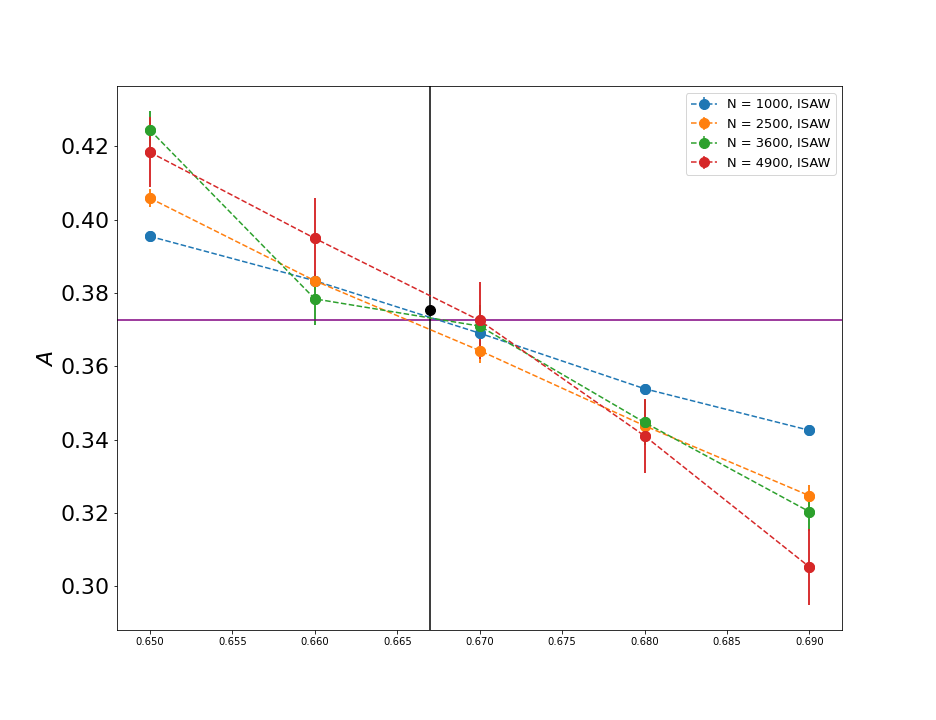
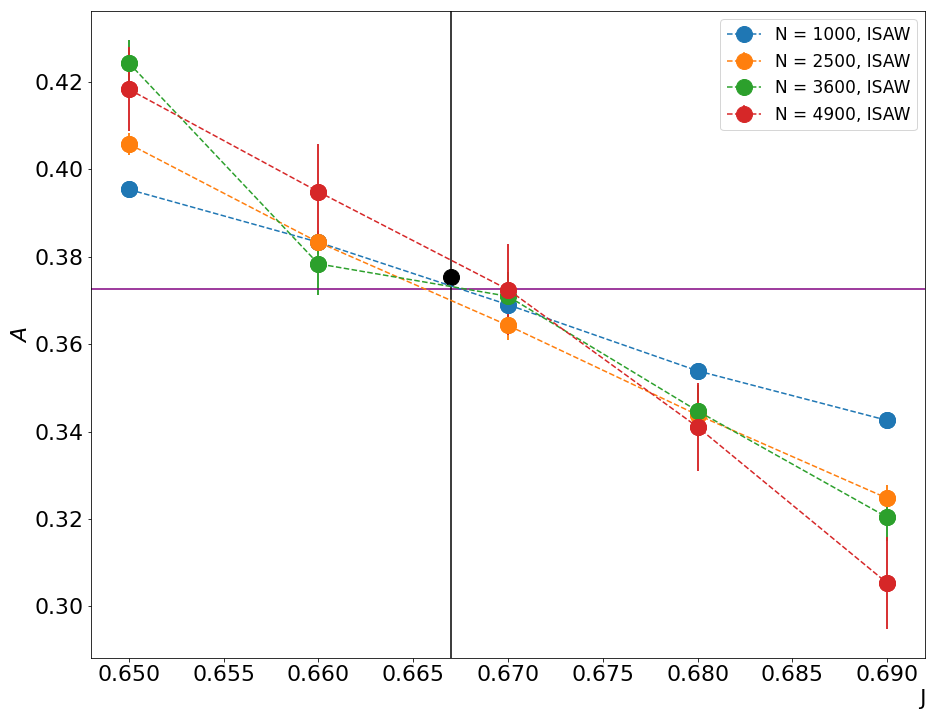
Add files via upload

diff --git a/Статья/main.tex b/Статья/main.tex
@@ -56,7 +56,13 @@ For comparing magnetic properties of models with similar geometric ones we also 
     Q_{N,\alpha\beta} = \frac{1}{N+1} \sum^{N}_{i=0}(w_{i,\alpha} - w_{c, \alpha})(w_{i,\beta} - w_{c, \beta})
 \end{equation}
 
-where $N$ is length of the system (number of monomers in conformations of Ising-ISAW models and number of spins in the lattice in rectangular Ising), and  $\alpha,\beta$ are coordinates (so, $Q_{N, xx}$ and $Q_{N,yy}$ can be defined as mean squares of coordinates of the points of the model in the cartesian coordinate system with the center in the center of model). Eugen values $q1$, $q2$ of given tensor are used in enumerating another important shape factor - mean asphericity[REF PELLISETTO]:
+where $N$ is length of the system (number of monomers in conformations of Ising-ISAW models and number of spins in the lattice in rectangular Ising), and  $\alpha,\beta$ are coordinates (so, $Q_{N, xx}$ and $Q_{N,yy}$ can be defined as mean squares of coordinates of the points of the model in the cartesian coordinate system with the center in the center of model). Eugen values $q1$, $q2$ of given tensor can be interpreted as $Q_{N, xx}$ and $Q_{N,yy}$ in the coordinate system of eugen vectors, or more important - as square of semi-axes of ellipse of inertia of given system. The proportion of them for systems with length $N$ will be[REF PELLISSETTO]: 
+
+\begin{equation}
+    r = \sqrt{\frac{\langle q_{1}\rangle_{N}}{\langle q_{2} \rangle_{N}}}
+\end{equation}
+
+Eugen values $q1$, $q2$ are also used in enumerating another important shape factor - mean asphericity[REF PELLISETTO]:
 
 \begin{equation}
 \label{eq:Asphericity}
@@ -118,28 +124,40 @@ We are interested in comparing models in their respective critical regions. For 
 %пока только рисунки, для хронологии
 %более подробное объяснение добавлю позже
 
+We attempted to learn how magnetic properties of Ising-like models depend on their geometrical ones and to define their comparability in critical region, where observable values of models don't depend on the length of conformation $N$. As we know, in the Ising model on rectangular lattice shape factors like aspect ratio $r$ are the parameters, not observable values. Therefore, we can find value of asphericity $\mathcal{A}$ for any aspect ratio.
+
+\begin{figure}[h]
+    \centering
+    \includegraphics[width=\columnwidth]{Images/A_r.png}
+    \caption{Asphericity as function of aspect ratio $r$ of the rectangular lattice}
+    \label{fig:A_r}
+\end{figure}
+
+% следует ли добавить расчёты оценки зависимости асферичности 
+% прямоугольника от стороны? Или это лучше добавить в models and methods?
+
+ We found values of aspericity of Ising-ISAW and ISAW models in their respective critical regions. They are used to enumerate aspect ratio of the rectangular lattice with the same value of asphericity.
+
 \begin{figure}[h]
     \centering
     \includegraphics[width=\columnwidth]{Images/Ising_ISAW_A_J_Full.png}
-    \caption{Caption}
-    \label{fig:my_label}
+    \caption{Asphericity of Ising-ISAW (empty squares) and ISAW-only models (stars) as function of $J=1/T$, varying lengths of conformations $N$ = 1000 (blue), 2500 (yellow), 3600 (green) and 4900 (red)}
+    \label{fig:Ising&ISAW_A_J}
 \end{figure}
 
 \begin{figure}[h]
     \centering
     \includegraphics[width=\columnwidth]{Images/Ising_A_J_Close.png}
-    \caption{Caption}
-    \label{fig:my_label}
+    \caption{Asphericity of Ising-ISAW model as function of zoomed in the critical region (red vertical lines), varying lengths of conformations N = 1000 (blue), 2500 (yellow), 3600 (green) and 4900 (red)}
+    \label{fig:Ising_A_J}
 \end{figure}
 
 \begin{figure}[h]
     \centering
     \includegraphics[width=\columnwidth]{Images/ISAW_A_J_Close.png}
-    \caption{Caption}
-    \label{fig:my_label}
+    \caption{Asphericity of ISAW model as function of zoomed in the critical region (red vertical lines), varying lengths of conformations N = 1000 (blue), 2500 (yellow), 3600 (green) and 4900 (red)}
+    \label{fig:ISAW_A_J}
 \end{figure}
-
-
 
 \begin{table}[h!]
     \centering
@@ -154,7 +172,7 @@ We are interested in comparing models in their respective critical regions. For 
          0.667 & 0.375 & 0.49 & $0.349 \pm 0.006$ \\ \hline
     \end{tabular}
     \caption{Values of critical cumulant for Ising model on rectangular lattice with mean asphericity related to models ISAW and Ising-ISAW in their critical regions}
-    \label{tab:my_label}
+    \label{tab:A_r_U}
 \end{table}
 
 \subsection{Bulk}
